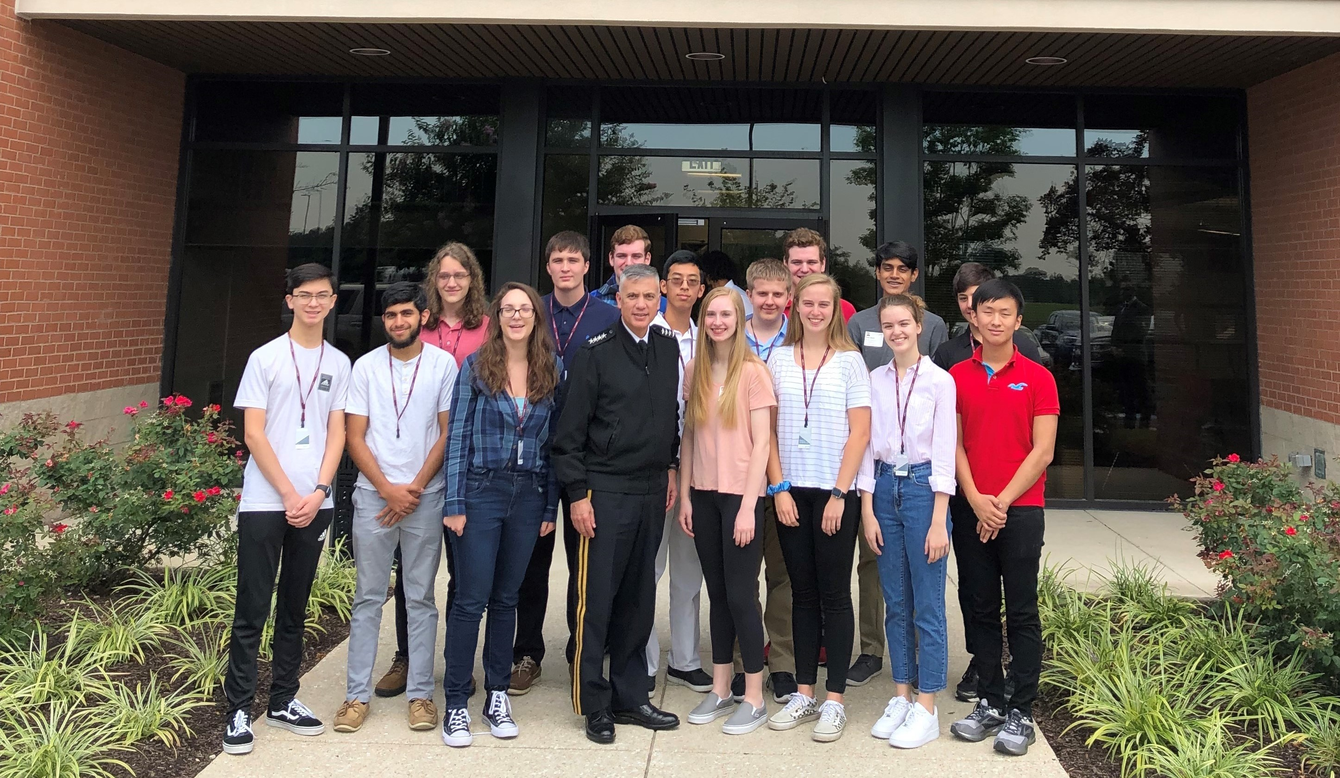
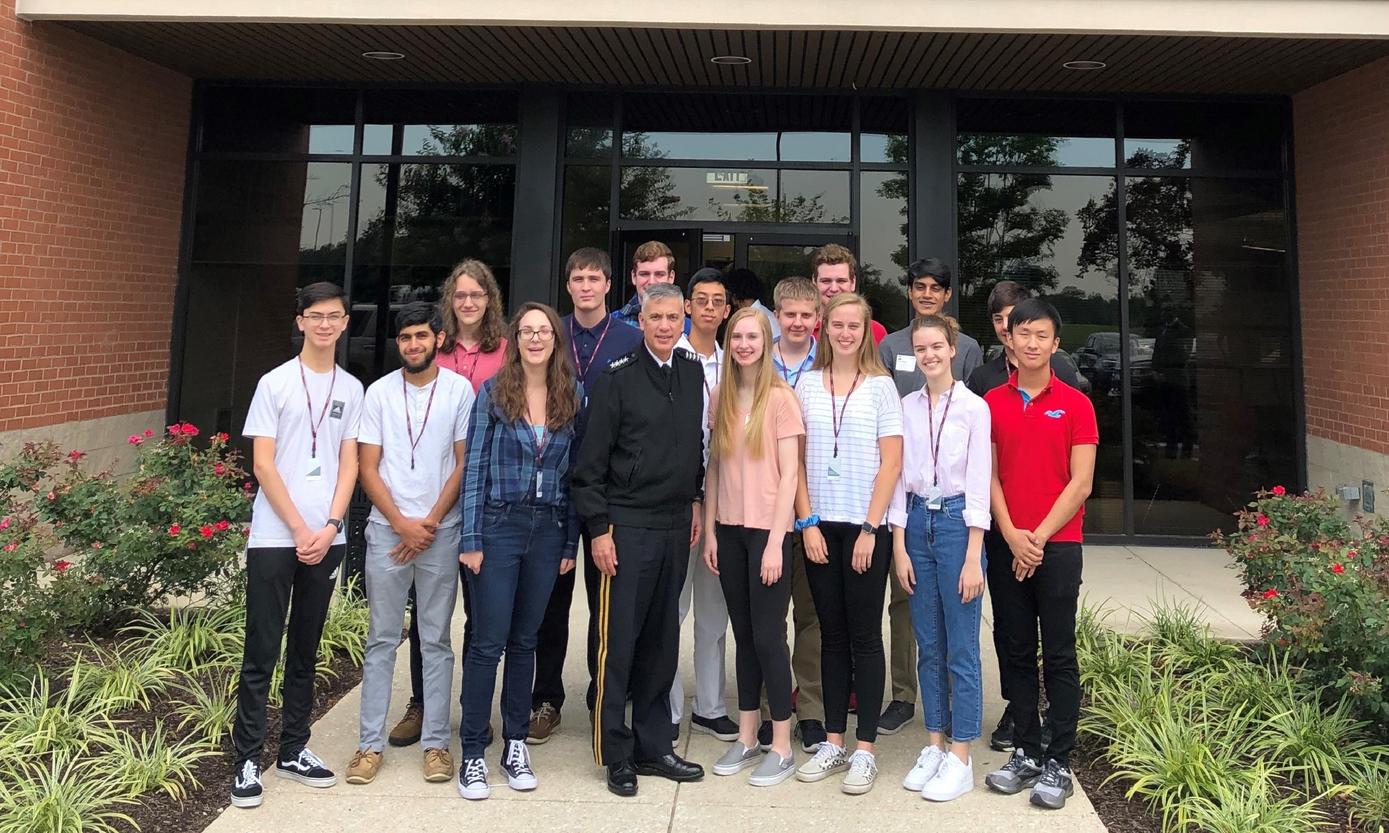
carousel pics

diff --git a/HomePage.html b/HomePage.html
@@ -79,13 +79,13 @@
                         <!-- The slideshow -->
                         <div class="carousel-inner">
                             <div class="carousel-item active">
-                                <img src="img/Interns.jpg" alt="Interns" style = "width: 100%; height: 100%">
+                                <img src="img/Interns.jpg" alt="Interns" style = "max-width: 100%; max-height: 100%">
                             </div>
                             <div class="carousel-item">
-                                <img src="chicago.jpg" alt="Chicago">
+                                <img src="img/DreamPortCisco.jpg" alt="Cisco" style = "max-width: 100%; max-height: 100%">
                             </div>
                             <div class="carousel-item">
-                                <img src="ny.jpg" alt="New York">
+                                <img src="img/Steg.jpg" alt="Steg" style = "max-width: 100%; max-height: 100%">
                             </div>
                         </div>
                         
